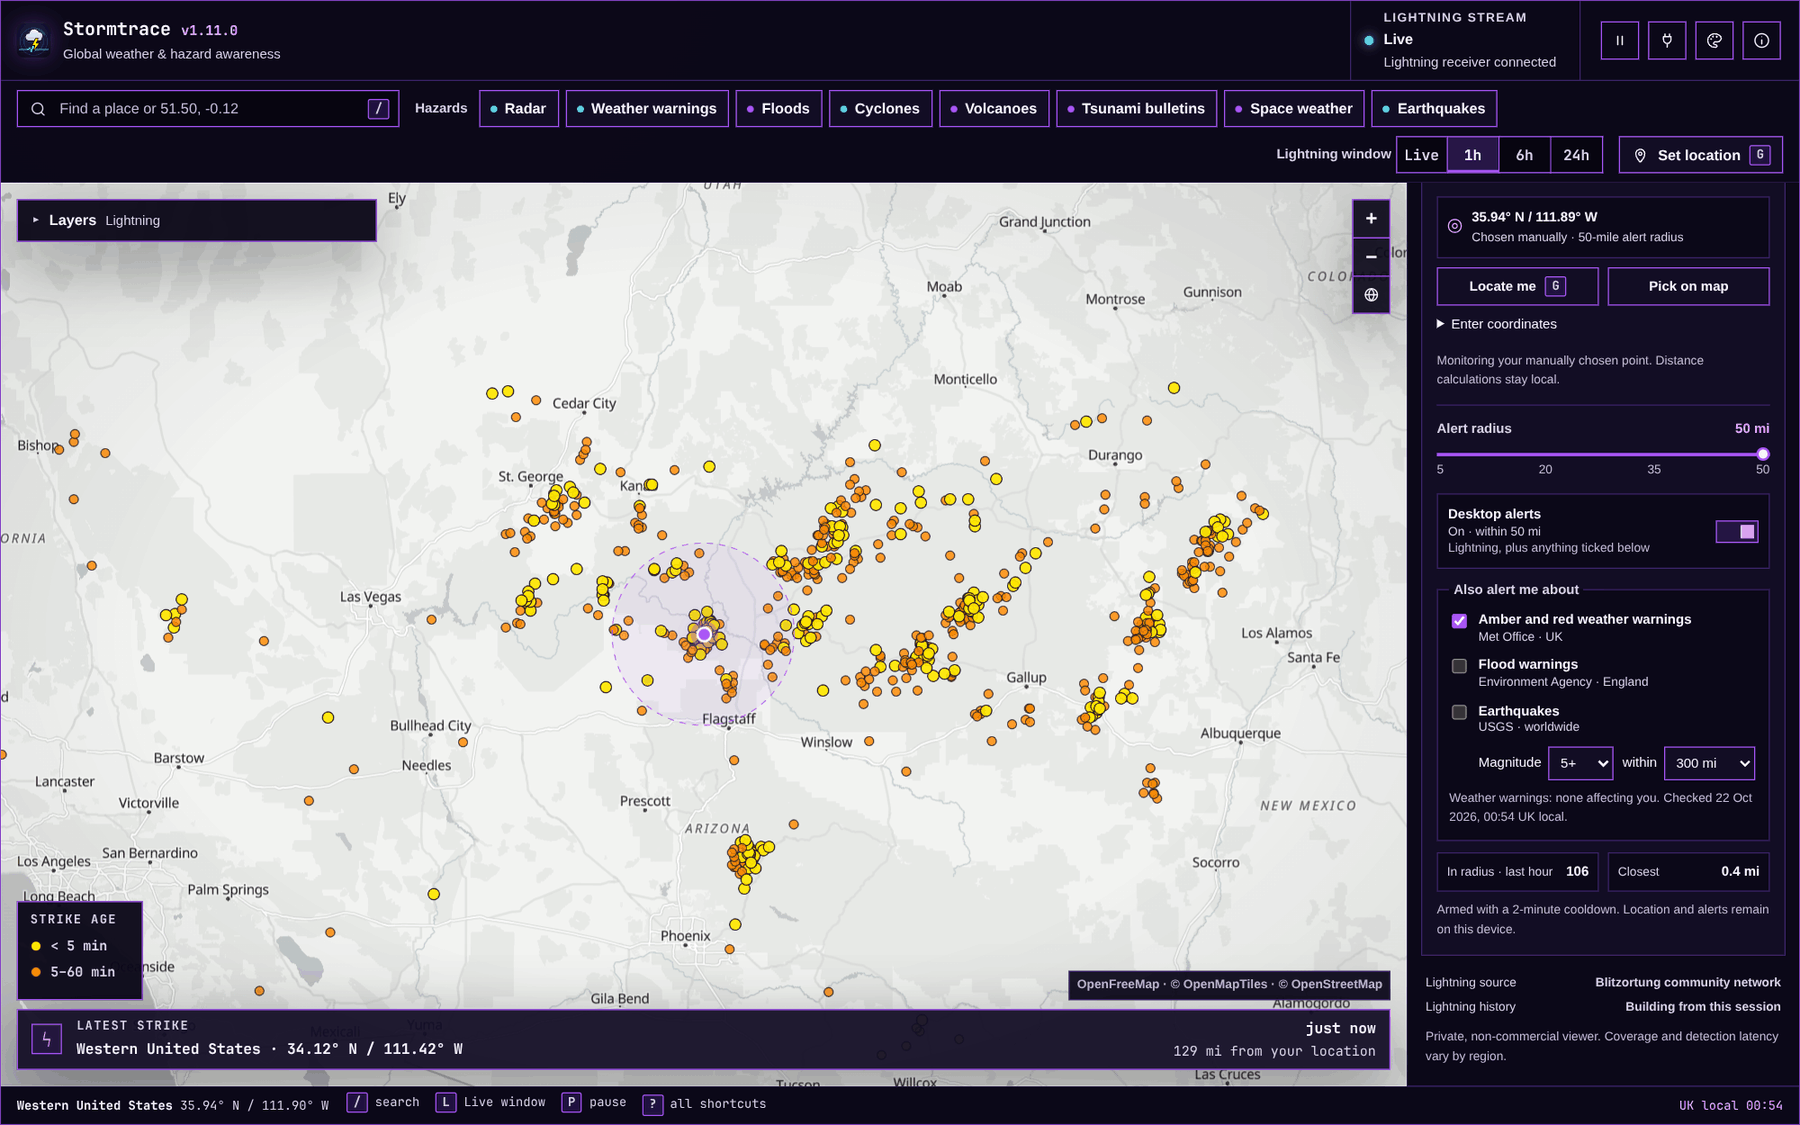
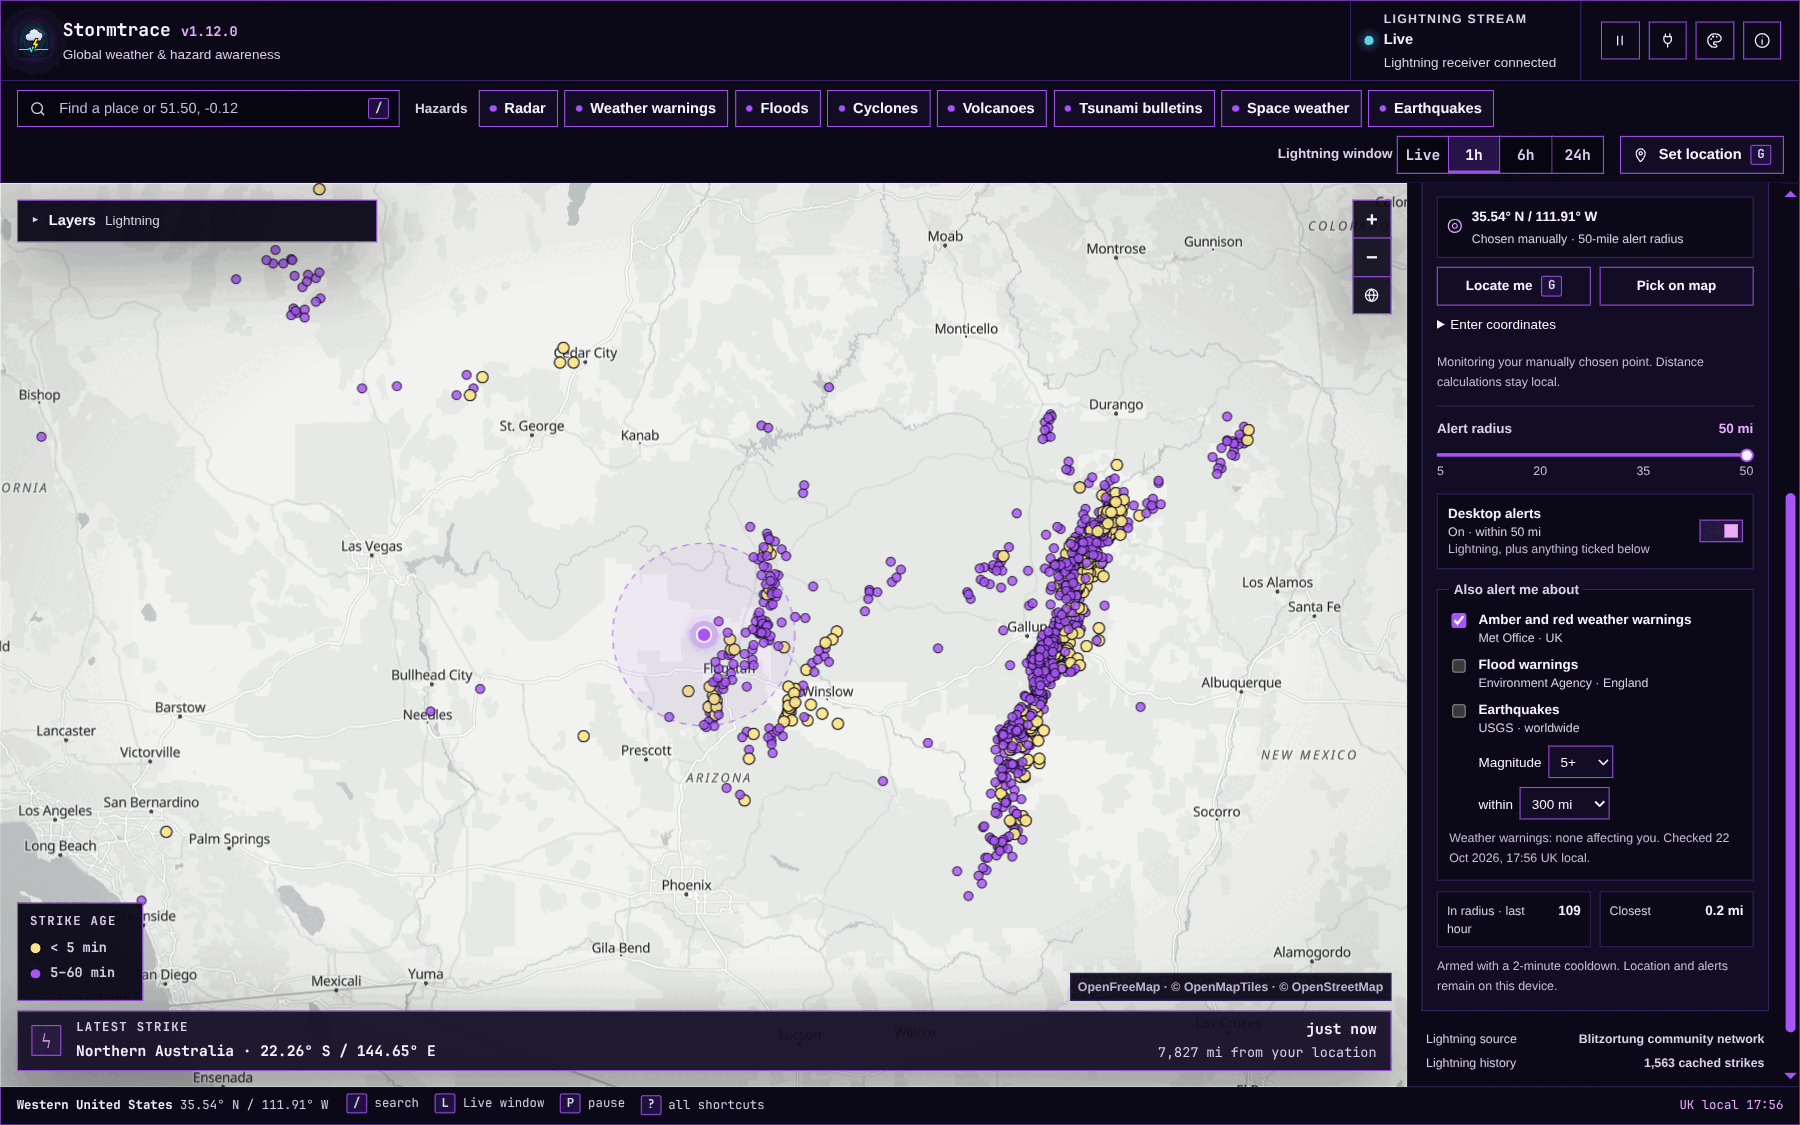
updates

diff --git a/app.js b/app.js
@@ -10,6 +10,10 @@
   const ALERT_CLOCK_SKEW_MS = 30 * 1000;
   const UI = globalThis.StormtraceUI;
   const ALERT_COOLDOWN_MS = 2 * 60 * 1000;
+  // New-strike flashes: only fresh live strikes, bounded so a busy storm cannot flood the DOM.
+  const FLASH_MAX_AGE_MS = 60 * 1000;
+  const FLASH_DURATION_MS = 2600;
+  const MAX_ACTIVE_FLASHES = 48;
   const core = globalThis.StormtraceCore;
   const platform = globalThis.StormtracePlatform;
   const liveProvider = globalThis.StormtraceProviders.live;
@@ -27,7 +31,7 @@
     line: "#263c55", lineBright: "#405e80",
   };
 
-  // Strike age uses a fixed, theme-independent ramp so the three ages stay distinguishable.
+  // Strike age follows the theme; this ramp is used when a theme's colours are too close to tell apart.
   const STRIKE_AGE = { now: "#ffe600", recent: "#ff8a00", old: "#d6336c", stroke: "#1a1022" };
   const WINDOW_LABELS = { live: "Live · 15 min", 60: "Past hour", 360: "Past 6 hours", 1440: "Rolling 24 hours" };
 
@@ -129,6 +133,8 @@
     map: null,
     tileLayer: null,
     strikeLayer: null,
+    flashLayer: null,
+    activeFlashes: 0,
     rangeLayer: null,
     homeLayer: null,
     strikes: new Map(),
@@ -181,6 +187,7 @@
     customPalette: persisted.customPalette || null,
     activePalette: FALLBACK_PALETTE,
     paletteVersion: 0,
+    strikeAge: STRIKE_AGE,
     themeSignature: "",
     monitoringPaused: false,
   };
@@ -279,6 +286,7 @@
 
   function setLightningVisible(visible) {
     if (visible) state.map.addLayer(state.strikeLayer); else state.map.removeLayer(state.strikeLayer);
+    if (!visible) state.flashLayer?.clearLayers();
     document.querySelector('.map-overlay.legend').hidden = !visible;
     document.querySelector('.latest-strip').hidden = !visible;
     updateLayersSummary();
@@ -360,6 +368,11 @@
     applyMapAppearance();
 
     state.strikeLayer = L.layerGroup().addTo(state.map);
+    // Strikes draw on the overlay canvas; flashes are DOM markers just above it.
+    state.map.createPane("strikeFlash");
+    state.map.getPane("strikeFlash").style.zIndex = 450;
+    state.map.getPane("strikeFlash").style.pointerEvents = "none";
+    state.flashLayer = L.layerGroup().addTo(state.map);
     $("#mapLightning").addEventListener("change", (event) => {
       setLightningVisible(event.target.checked);
     });
@@ -632,6 +645,10 @@
     document.body.dataset.systemMode = palette.mode;
     els.themeButton.title = state.themeSource === "system" ? `Appearance · following Omarchy (${state.systemPalette.name})` : "Appearance · custom colours";
     applyPopupPalette(palette);
+    state.strikeAge = strikeAgePalette(palette);
+    const age = state.strikeAge;
+    Object.entries({ "--age-now": age.now, "--age-recent": age.recent, "--age-old": age.old, "--age-stroke": age.stroke })
+      .forEach(([key, value]) => root.style.setProperty(key, value));
     updateLocationLayers();
     scheduleRender();
   }
@@ -649,6 +666,23 @@
       "--popup-accent-bright": ensureContrast(palette.violetBright, bg, 4.5),
     };
     Object.entries(variables).forEach(([key, value]) => document.documentElement.style.setProperty(key, value));
+  }
+
+  // Newest strikes take the theme's yellow, recent ones its accent and older ones a muted accent.
+  function strikeAgePalette(palette) {
+    const hex = (key) => toHexColor(palette[key], FALLBACK_PALETTE[key]);
+    const now = hex("yellow"), recent = hex("violet");
+    const stroke = palette.mode === "light" ? mixHex(hex("text"), "#000000", 0.3) : mixHex(hex("bg"), "#000000", 0.4);
+    const legible = (fill) => contrastRatio(fill, stroke) >= 3;
+    // Prefer a muted magenta; a theme whose magenta sits near its accent uses its muted colour.
+    const old = [mixHex(hex("magenta"), hex("muted"), 0.45), hex("muted"), mixHex(hex("magenta"), hex("text"), 0.5)]
+      .find((fill) => colorDistance(now, fill) >= 120 && colorDistance(recent, fill) >= 60 && legible(fill));
+    return old && colorDistance(now, recent) >= 120 && legible(now) && legible(recent) ? { now, recent, old, stroke } : STRIKE_AGE;
+  }
+
+  function colorDistance(first, second) {
+    const a = toHexColor(first).slice(1), b = toHexColor(second).slice(1);
+    return Math.hypot(...[0, 2, 4].map((offset) => parseInt(a.slice(offset, offset + 2), 16) - parseInt(b.slice(offset, offset + 2), 16)));
   }
 
   function contrastRatio(a, b) {
@@ -927,11 +961,37 @@
       state.lastStrike = additions.at(-1);
       state.latestStrikeDirty = true;
     }
-    if (isNew) additions.forEach(checkProximityAlert);
+    if (isNew) {
+      additions.forEach(checkProximityAlert);
+      flashStrikes(additions);
+    }
     if (persist && state.db) storeStrikes(additions);
     trimMemory();
     scheduleRender();
     scheduleStats();
+  }
+
+  function flashStrikes(strikes) {
+    if (!state.flashLayer || document.hidden || state.monitoringPaused || $("#mapLightning")?.checked === false) return;
+    const now = Date.now();
+    const mapBounds = state.map.getBounds();
+    const bounds = { south: mapBounds.getSouth(), north: mapBounds.getNorth(), west: mapBounds.getWest(), east: mapBounds.getEast() };
+    // Newest first, so a large packet flashes its latest strikes when the cap is reached.
+    for (let index = strikes.length - 1; index >= 0 && state.activeFlashes < MAX_ACTIVE_FLASHES; index -= 1) {
+      const strike = strikes[index];
+      if (now - strike.time > FLASH_MAX_AGE_MS || !strikeIsInBounds(strike, bounds)) continue;
+      const flash = L.marker([strike.lat, displayLongitude(strike.lon, bounds)], {
+        icon: L.divIcon({ className: "strike-flash", html: "<i></i><i></i><i></i><b></b>", iconSize: [16, 16], iconAnchor: [8, 8] }),
+        pane: "strikeFlash",
+        interactive: false,
+        keyboard: false,
+      }).addTo(state.flashLayer);
+      state.activeFlashes += 1;
+      setTimeout(() => {
+        state.flashLayer.removeLayer(flash);
+        state.activeFlashes -= 1;
+      }, FLASH_DURATION_MS);
+    }
   }
 
   function appendStrikeTimeline(additions) {
@@ -1170,13 +1230,14 @@
   }
 
   function strikePresentationForBand(ageBand) {
+    const age = state.strikeAge;
     if (ageBand === 0) {
-      return { color: STRIKE_AGE.stroke, fillColor: STRIKE_AGE.now, radius: 4.8, opacity: 0.9, fillOpacity: 0.92 };
+      return { color: age.stroke, fillColor: age.now, radius: 4.8, opacity: 0.9, fillOpacity: 0.92 };
     }
     if (ageBand === 1) {
-      return { color: STRIKE_AGE.stroke, fillColor: STRIKE_AGE.recent, radius: 4.1, opacity: 0.75, fillOpacity: 0.82 };
+      return { color: age.stroke, fillColor: age.recent, radius: 4.1, opacity: 0.75, fillOpacity: 0.82 };
     }
-    return { color: STRIKE_AGE.stroke, fillColor: STRIKE_AGE.old, radius: 3.6, opacity: 0.55, fillOpacity: 0.66 };
+    return { color: age.stroke, fillColor: age.old, radius: 3.6, opacity: 0.55, fillOpacity: 0.66 };
   }
 
   function updateStrikeMarkerVisual(marker, strike, now = Date.now()) {

diff --git a/styles.css b/styles.css
@@ -1,8 +1,9 @@
 /* Stormtrace interface styles.
    Palette tokens are replaced at runtime from the Omarchy or custom palette.
    --popup-* tokens give dialogs and map popups an opaque, high-contrast surface
-   derived from the active palette. Strike-age and official severity colours are
-   fixed so themes cannot reduce their legibility or change their meaning. */
+   derived from the active palette. Strike-age colours (--age-*) follow the palette
+   but fall back to a fixed ramp when a theme's colours are too close to separate.
+   Official severity colours are fixed so themes cannot change their meaning. */
 :root {
   color-scheme: dark;
   --bg: #07101d;
@@ -544,6 +545,18 @@ dialog > .hazard-dialog-card { width: 100%; height: 100%; max-height: none; padd
 .theme-actions button { flex: 1 1 200px; min-height: 38px; padding: 8px; white-space: normal; margin: 0; }
 
 /* ---------- Map popups (opaque, palette-derived) ---------- */
+/* New-strike flash: uses the newest strike-age colour.
+   Only transform and opacity animate, so a storm's worth of flashes stays cheap. */
+.strike-flash { pointer-events: none; }
+.strike-flash b, .strike-flash i { position: absolute; inset: 0; border-radius: 50%; }
+.strike-flash b { background: #fff; box-shadow: 0 0 6px 3px #fff, 0 0 18px 8px var(--age-now); animation: strikeFlashCore 2.6s ease-out forwards; }
+.strike-flash i { border: 2px solid var(--age-now); box-shadow: 0 0 6px var(--age-now); opacity: 0; animation: strikeFlashRing 1.5s cubic-bezier(.2, .6, .3, 1) both; }
+.strike-flash i:nth-child(2) { animation-delay: .4s; }
+.strike-flash i:nth-child(3) { animation-delay: .8s; }
+@keyframes strikeFlashCore { 0% { opacity: 1; transform: scale(1.9); } 8% { opacity: .35; } 16% { opacity: 1; transform: scale(1.3); } 100% { opacity: 0; transform: scale(.6); } }
+@keyframes strikeFlashRing { 0% { opacity: 1; transform: scale(.6); } 100% { opacity: 0; transform: scale(6); } }
+/* Without motion the core holds as a static highlight for the flash duration. */
+@media (prefers-reduced-motion: reduce) { .strike-flash b { opacity: .85; transform: scale(1.3); } }
 .strike-tooltip { padding: 0; pointer-events: none; color: var(--popup-text); background: var(--popup-bg); border: 1px solid var(--popup-line); border-radius: 0; box-shadow: var(--shadow); }
 .strike-tooltip::before { border-top-color: var(--popup-line); }
 .strike-tooltip-content { display: grid; gap: 4px; min-width: 180px; padding: 9px 11px; font: var(--font-xs)/1.45 var(--font-mono); }

diff --git a/tests/app.test.js b/tests/app.test.js
@@ -183,6 +183,35 @@ test("markers stay in the counted world copy while panning and keep selection", 
   assert.equal(marker.moves, 2);
 });
 
+test("only fresh live strikes in view flash, within a bounded and self-clearing set", () => {
+  const app = loadApp();
+  const flashes = new Set();
+  app.state.flashLayer = { addLayer(flash) { flashes.add(flash); }, removeLayer(flash) { flashes.delete(flash); }, clearLayers() { flashes.clear(); } };
+  Object.assign(app.bounds, { west: -10, east: 10, south: -10, north: 10 });
+  app.ingestStrikes([strike("fresh", app.now()), strike("stale", app.now() - 61000), strike("offscreen", app.now(), 40)], true, false);
+  assert.deepEqual([...flashes].map((flash) => flash.latlng), [{ lat: 0, lng: 0 }]);
+  assert.equal([...flashes][0].options.pane, "strikeFlash");
+  assert.equal([...flashes][0].options.interactive, false);
+  app.ingestStrikes([strike("backfill", app.now())], false, false);
+  assert.equal(flashes.size, 1);
+  app.ingestStrikes(Array.from({ length: 100 }, (_, i) => strike(`storm:${i}`, app.now())), true, false);
+  assert.equal(flashes.size, 48);
+  assert.equal(app.state.activeFlashes, 48);
+  app.advance(2600);
+  assert.equal(flashes.size, 0);
+  assert.equal(app.state.activeFlashes, 0);
+});
+
+test("strike ages follow the palette and fall back to the fixed ramp when colours are too close", () => {
+  const app = loadApp();
+  const theme = { mode: "dark", bg: "#101418", text: "#e0e0e0", muted: "#909090", yellow: "#f0d050", violet: "#4080ff", magenta: "#c060e0" };
+  const age = app.strikeAgePalette(theme);
+  assert.equal(age.now, "#f0d050");
+  assert.equal(age.recent, "#4080ff");
+  assert.notEqual(age.old, age.recent);
+  assert.deepEqual({ ...app.strikeAgePalette({ ...theme, violet: "#f0d058" }) }, { now: "#ffe600", recent: "#ff8a00", old: "#d6336c", stroke: "#1a1022" });
+});
+
 test("the final burst updates statistics at its deadline without another map render", () => {
   const app = loadApp();
   app.ingestStrikes([strike("initial", app.now())], false, false);

diff --git a/tests/helpers/app-harness.js b/tests/helpers/app-harness.js
@@ -11,7 +11,7 @@ const exports = [
   "timelineIndexAtOrAfter", "displayLongitude", "strikeIsInBounds", "render",
   "scheduleStats", "selectWindow", "handleVisibilityChange", "strikeDistance",
   "updateProximityStats", "loadHistory", "storeStrikes", "flushStrikes", "startDemo",
-  "startReceiver", "refreshOmarchyTheme", "selectThemeSource",
+  "startReceiver", "refreshOmarchyTheme", "selectThemeSource", "strikeAgePalette",
   "locationErrorMessage", "validLocation", "locate", "requestLocation", "saveSettings", "useApproximateLocation", "setManualLocation", "toggleMapLocation", "setMapLocation",
 ];
 
@@ -99,6 +99,8 @@ export function loadApp({ search = "", indexedDB, keyRange, storage, notificatio
     clearInterval(id) { timers.delete(id); },
     IDBKeyRange: keyRange || { lowerBound: (lower) => ({ lower }) },
     L: {
+      marker([lat, lng], options) { return { latlng: { lat, lng }, options, addTo(layer) { layer.addLayer(this); return this; } }; },
+      divIcon(options) { return options; },
       circleMarker([lat, lng], options) {
         return {
           latlng: { lat, lng }, options, events: {}, popupOpen: false, tooltipOpen: false,

diff --git a/index.html b/index.html
@@ -624,7 +624,7 @@
 
           <section class="appearance-section" aria-labelledby="coloursTitle">
             <h3 id="coloursTitle">Colours</h3>
-            <p class="theme-intro">Stormtrace follows your active Omarchy palette by default. Choose Custom to override it only for this app. Strike-age and official warning colours stay fixed for legibility.</p>
+            <p class="theme-intro">Stormtrace follows your active Omarchy palette by default. Choose Custom to override it only for this app. Strike-age colours follow the palette unless they would be too close to tell apart; official warning colours stay fixed.</p>
             <div class="theme-source" role="group" aria-label="Colour source">
               <button type="button" class="theme-source-button active" data-theme-source="system">
                 <span>Omarchy</span><small id="currentThemeName">Current system theme</small>

diff --git a/README.md b/README.md
@@ -14,7 +14,7 @@
   <img alt="Built for Omarchy" src="https://img.shields.io/badge/built%20for-Omarchy-ffe600">
 </p>
 
-![Stormtrace showing live lightning across the world, with hotspots and activity in the sidebar](docs/screenshots/overview.png)
+![Stormtrace showing live lightning across the world, with a new strike flashing and hotspots and activity in the sidebar](docs/screenshots/overview.png)
 
 Watch thunderstorms light up the map as strikes are detected around the world, and get a quiet desktop alert if lightning comes close to you. When you want the bigger picture, one click brings up rain radar, UK weather warnings, floods, earthquakes, tropical cyclones, volcanoes, tsunami bulletins and space weather, all straight from official and public sources.
 
@@ -26,11 +26,11 @@ Your location stays on your computer. There's no account, no cloud service and n
 
 ### ⚡ Follow lightning as it happens
 
-New strikes appear within moments, coloured by age: bright yellow for the last five minutes, orange for the last hour, crimson for older ones. Switch between the live view and the last hour, six hours or 24 hours, and jump straight to the busiest storm with **Focus top**.
+New strikes appear within moments with a bright flash and spreading rings, so they catch your eye while you watch a storm. Strikes are coloured by age in your theme's colours: its yellow for the last five minutes, its accent for the last hour, and a muted shade for older ones. Switch between the live view and the last hour, six hours or 24 hours, and jump straight to the busiest storm with **Focus top**.
 
 <table>
   <tr>
-    <td width="50%"><img src="docs/screenshots/regional-map.png" alt="Zoomed in on an active storm, with strikes coloured by age"></td>
+    <td width="50%"><img src="docs/screenshots/regional-map.png" alt="Zoomed in on an active storm, with strikes coloured by age and a new strike flashing"></td>
     <td width="50%"><img src="docs/screenshots/strike-details.png" alt="Details for a single lightning strike, including time, coordinates and uncertainty"></td>
   </tr>
   <tr>
@@ -103,7 +103,7 @@ Use **Layers** in the top-left corner of the map to add flood areas or earthquak
 
 ### 🎨 Make it yours
 
-Stormtrace follows your Omarchy theme automatically, or you can pick your own colours. **Appearance** also has larger text sizes, a choice of UK or local time, and map brightness and shading. Strike colours and official warning colours never change, so they always mean the same thing.
+Stormtrace follows your Omarchy theme automatically, or you can pick your own colours. **Appearance** also has larger text sizes, a choice of UK or local time, and map brightness and shading. Strike-age colours come from your theme, but Stormtrace switches to a fixed yellow, orange and crimson set if a theme's colours are too close to tell apart. Official warning colours never change, so they always mean the same thing.
 
 ![The Appearance panel with text, time, colour and map settings](docs/screenshots/appearance-controls.png)
 

diff --git a/docs/architecture.md b/docs/architecture.md
@@ -91,7 +91,7 @@ The flood map card is the visual reference for all new or modified popups. Use o
 
 The toolbar's **Hazards** buttons open the on-demand dialog views; each button carries a retrieval-state chip set by `StormtraceUI.sourceStatus`. Everything drawn on the main map is controlled from one **Layers** panel on the map: lightning, radar (whose source/timeline panel opens in the sidebar), England flood areas and earthquakes. Dialog "Show on map" actions and map modules share one selected event through the `hazardselected` and `clearselectedhazard` document events, so only one event is selected and Layers can clear it. Lightning stream status, pause/reconnect, the lightning window, activity statistics and proximity alerts explicitly identify their domain. A lightning visibility toggle changes only its map layer and legends; it does not stop collection or alter persisted settings. Dialogs share one header template: title and Close, labelled scope selectors with actions, status, attribution and official links, then Current/Saved history tabs.
 
-Dialog and popup surfaces use `--popup-*` tokens that `app.js` derives from the active Omarchy or custom palette, with minimum text contrast enforced. Strike-age colours and official severity colours are fixed constants that themes cannot change. Viewer-facing source `summary` text sits in `providers/registry.js` beside, not inside, the JSON blocks shared with Python, so it is browser-only presentation copy and does not affect the Python fallback contracts.
+Dialog and popup surfaces use `--popup-*` tokens that `app.js` derives from the active Omarchy or custom palette, with minimum text contrast enforced. Strike-age colours (`--age-*`) are derived from the palette, with a fixed fallback ramp when the derived colours are not distinct enough or lack contrast with the marker outline. Official severity colours are fixed constants that themes cannot change. Viewer-facing source `summary` text sits in `providers/registry.js` beside, not inside, the JSON blocks shared with Python, so it is browser-only presentation copy and does not affect the Python fallback contracts.
 
 ## Additional hazard views
 

diff --git a/docs/interface.md b/docs/interface.md
@@ -49,7 +49,7 @@ Displayed instants use labelled UK local time by default. **Appearance → Show 
 
 ## Colours
 
-Interface colours follow the active Omarchy palette or a custom palette. Dialogs and popups use opaque surfaces derived from that palette, with a minimum text contrast. Strike-age colours (yellow under 5 minutes, orange to the end of the first hour, crimson older) and official warning colours are fixed in every theme. The strike-age legend lists only the ages the selected window can contain.
+Interface colours follow the active Omarchy palette or a custom palette. Dialogs and popups use opaque surfaces derived from that palette, with a minimum text contrast. Strike-age colours follow the palette: its yellow under 5 minutes, its accent to the end of the first hour, and a muted accent for older strikes. If a theme's colours are too close to tell apart, Stormtrace uses a fixed yellow, orange and crimson ramp instead. Official warning colours are fixed in every theme. New live strikes in view flash briefly with expanding rings in the newest strike-age colour; with reduced motion they show a static highlight instead. The strike-age legend lists only the ages the selected window can contain.
 
 ## Keyboard, location and saved settings
 
